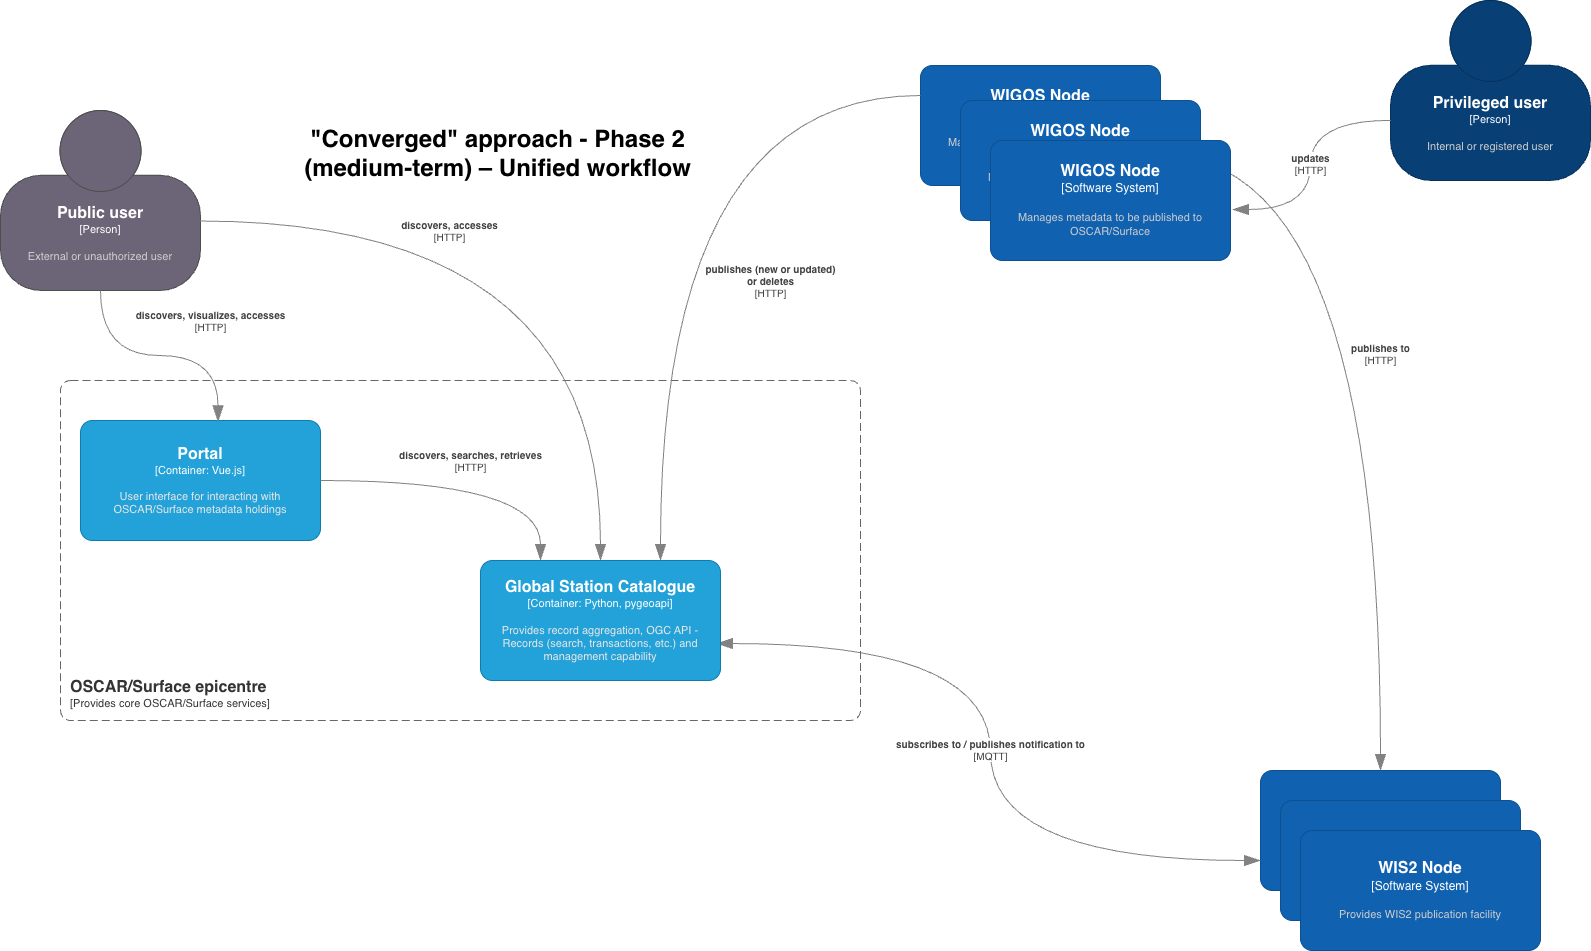
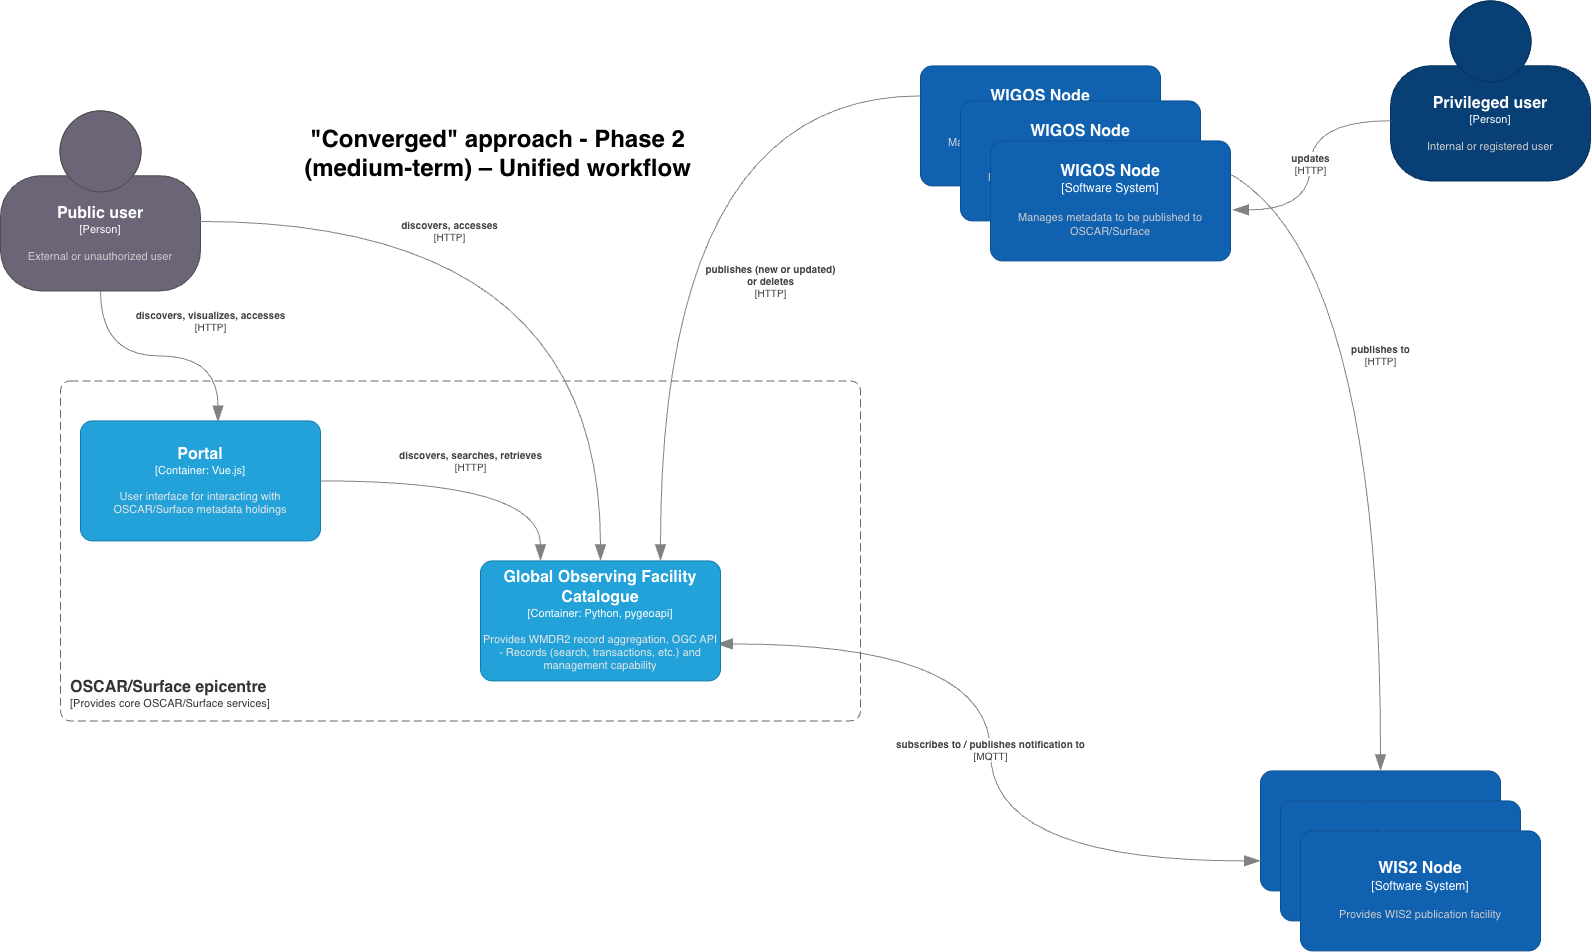
update website via GitHub Actions

diff --git a/community/service-providers/index.html b/community/service-providers/index.html
@@ -41,24 +41,123 @@
         <div class="row">
           <div class="col-sm-12 col-md-10 col-md-offset-1">
             <h1 id="service-providers">Service Providers<a class="headerlink" href="#service-providers" title="Permanent link">&para;</a></h1>
-<p>The pygeoapi Service Provivers page lists businesses, organizations and individuals around the world who can provide services related to pygeoapi.</p>
-<p>In order to add your entity to the pygeoapi Service Providers page, you must be a clear, visible contributor to the project and community.</p>
-<p>While listing new entities is welcome, the pygeoapi <a href="https://pygeoapi.io/community/psc">Project Steering Committee (PSC)</a> reserves the right to update or remove organizations as required.</p>
-<p>To add your entity:</p>
+<p>pygeoapi is developed and supported by a number of businesses, organizations and individuals around the world.</p>
+<p>Using a service provider is a great way to get started with pygeoapi and contributes to the ongoing sustainability of the project.  Services include (but are not limited to):</p>
 <ul>
-<li>edit the page <a href="https://github.com/geopython/pygeoapi.io/blob/master/docs/community/service-providers/index.md">https://github.com/geopython/pygeoapi.io/blob/master/docs/community/service-providers/index.md</a>, by adding the below HTML div (following the last entry) as follows:</li>
+<li>training</li>
+<li>setup/installation/deployment</li>
+<li>custom integration</li>
+<li>bug fixing</li>
+<li>features/enhancements</li>
+<li>core development</li>
+<li>maintenance/packaging/distribution</li>
+<li>documentation</li>
 </ul>
-<div class="language-html highlight"><pre><span></span><code><span id="__span-0-1"><a id="__codelineno-0-1" name="__codelineno-0-1" href="#__codelineno-0-1"></a>  <span class="p">&lt;</span><span class="nt">div</span> <span class="na">class</span><span class="o">=</span><span class="s">"service-provider"</span><span class="p">&gt;</span>
-</span><span id="__span-0-2"><a id="__codelineno-0-2" name="__codelineno-0-2" href="#__codelineno-0-2"></a>    <span class="p">&lt;</span><span class="nt">h2</span><span class="p">&gt;</span>My Entity<span class="p">&lt;/</span><span class="nt">h2</span><span class="p">&gt;</span>
-</span><span id="__span-0-3"><a id="__codelineno-0-3" name="__codelineno-0-3" href="#__codelineno-0-3"></a>    <span class="p">&lt;</span><span class="nt">p</span><span class="p">&gt;</span>
-</span><span id="__span-0-4"><a id="__codelineno-0-4" name="__codelineno-0-4" href="#__codelineno-0-4"></a>      <span class="p">&lt;</span><span class="nt">span</span><span class="p">&gt;</span>Description of My Entity which can include HTML.<span class="p">&lt;/</span><span class="nt">span</span><span class="p">&gt;</span>
-</span><span id="__span-0-5"><a id="__codelineno-0-5" name="__codelineno-0-5" href="#__codelineno-0-5"></a>    <span class="p">&lt;/</span><span class="nt">p</span><span class="p">&gt;</span>
-</span><span id="__span-0-6"><a id="__codelineno-0-6" name="__codelineno-0-6" href="#__codelineno-0-6"></a>  <span class="p">&lt;/</span><span class="nt">div</span><span class="p">&gt;</span>
-</span></code></pre></div>
-<ul>
-<li>open a GitHub Pull Request of your addition, for review</li>
-</ul>
-<p>If/once the Pull Request is merged, the page at <a href="https://pygeoapi.io/community/service-providers">https://pygeoapi.io/community/service-providers</a> will be updated live.  Note that entities are randomly shuffled on each page load.</p>
+<p>The section below provides a list of service providers who can help you in getting the best out of your pygeoapi investment.  The list is randomized on each page load.</p>
+<p>If you are a service provider and would like to be listed on this page, please feel free to <a href="https://github.com/geopython/pygeoapi.io/blob/master/docs/community/service-providers/index.md">add yourself to the service provider list</a>.</p>
+<div id="service-provider-list">
+
+  <div class="service-provider">
+    <h2>Center for Geospatial Solutions</h2>
+    <p>
+      <span>The <a href="https://www.lincolninst.edu/center-geospatial-solutions">Center for Geospatial Solutions </a> works to ensure that organizations of all sizes have access to data and advanced technologies to improve decision-making for land and water conservation, climate action, and social equity. We develop geospatial data tools and infrastructure that leverage linked data principles and international standards like OGC API. We also provide training, deployment, feature development, and operational services for organizations wishing to adopt pygeoapi as part of their spatial data infrastructure.</span>
+    </p>
+  </div>
+
+  <div class="service-provider">
+    <h2>EOX IT Services GmbH</h2>
+    <p>
+      <span><a href="https://eox.at"><img width="100" src="https://eox.at/EOX_Logo.svg"/></a></span>
+      <span><a href="https://eox.at">EOX IT Services GmbH</a> (Austria) offers solutions and services in the geodata domain in general and in the Earth Observation domain in particular. EOX is strongly committed towards utilizing and contributing to Open Source Software for example by adapting pygeoapi for <a href="https://github.com/eurodatacube/pygeoapi-kubernetes-papermill">Kubernetes-based cloud environments</a>. EOX furthermore provides managed compute and storage resources in the EOxHub Workspace.</span>
+    </p>
+  </div>
+
+  <div class="service-provider">
+    <h2>Geobeyond Srl</h2>
+    <p>
+      <span><a href="http://www.geobeyond.it">Geobeyond Srl</a> (Italy) is a small company established in 2012 that brings innovation into the digital identity and geospatial market of open-source based solutions. Geobeyond offers commercial support and core development on pygeoapi to build robust and affordable solutions which can scale up the authentication and authorization capabilities on client's premises. We provide managed serverless solutions on top of pygeoapi with <a href="https://github.com/geobeyond/fastgeoapi">FASTGeoAPI</a>.</span>
+    </p>
+  </div>
+
+  <div class="service-provider">
+    <h2>GeoCat B.V.</h2>
+    <p>
+      <span><a href="https://geocat.net">GeoCat</a> (Netherlands/Canada) offers cutting-edge customized software and services that make publishing geospatial data on the Internet easier and more efficient. Specialized in Spatial Data Infrastructure (SDI) and geospatial data cloud solutions, GeoCat builds sustainable applications following the Free and Open Source Software (FOSS) principle and open standards, and it also is a pygeoapi contributor.</span>
+    </p>
+  </div>
+
+  <div class="service-provider">
+    <h2>GeoComvos Ltd</h2>
+    <p>
+      <span><a href="http://geocomvos.com">GeoComvos Ltd.</a> is a technical consultancy and open source geospatial service provider, specializing in the development, deployment of Free and Open Source Software Geospatial (FOSS4G) technology, particularly in the development of Spatial Data Infrastructure (SDI) platforms and Geospatial Catalogues. The company specializes in promoting, developing and contributing Open Source and Open Data solutions to governments, organizations and the private sector. GeoComvos provides support and development services for pygeoapi.</span>
+    </p>
+  </div>
+
+  <div class="service-provider">
+    <h2>Just Objects B.V.</h2>
+    <p>
+      <span><a href="https://justobjects.nl">Just Objects</a> is the trading name for the professional activities of <a href="https://github.com/justb4">Just van den Broecke</a>. 
+         Just is a full-stack developer with over 25 years experience.
+       He is a pygeoapi core developer, has developed the <a href="https://demo.pygeoapi.io">pygeoapi demo server</a>, and contributes to many other open source geospatial projects. 
+        Through <a href="https://justobjects.nl">Just Objects</a> he provides a range of services for Free and Open Source Software Geospatial (FOSS4G) technology, including consultancy, training, development and (DevOps) deployment.</span>
+    </p>
+  </div>
+
+  <div class="service-provider">
+    <h2>GatewayGeo</h2>
+    <p>
+      <span><a href="https://gatewaygeomatics.com/"><img width="200" src="https://gatewaygeomatics.com/images/gatewaygeo-logo.png"/></a></span>
+      <span><a href="https://gatewaygeomatics.com/">GatewayGeo</a> (Canada) is a company on the East Coast of Canada that has long specialized in assisting organizations to publish, discover and share their geospatial data through openness : OGC services, leveraging FOSS4G software.  GatewayGeo is known for its longtime participation in the MapServer project, as well as being the company who gave the initial pycsw metadata publishing workshop back in 2013.  GatewayGeo's popular product, <a href="https://ms4w.com">MS4W</a>, is freely available and comes pre-configured with various OGC services running out-of-the-box.</span>
+    </p>
+  </div>  
+
+  <div class="service-provider">
+    <h2>Byte Road</h2>
+    <p>
+      <span><a href="https://byteroad.net/"><img width="100" src="https://byteroad.net/assets/img/BR_02.png"/></a></span>
+      <span><a href="https://byteroad.net/">Byte Road</a> (Portugal) is a consulting and R&D company, operating in the fields of data engineering and data analytics. We leverage open standards, free and open source software, cloud computing, software containers, SQL and NoSQL databases, to pave roads that connect users to their data assets. 
+      Byte Road develops and maintains the <a href="https://emotional.byteroad.net/">pygeoapi-based spatial data infrastructure (SDI)</a>, created in the context of the <a href="https://emotionalcities-h2020.eu/">eMOTIONAL Cities project</a>. We speak Portuguese, Italian, Spanish and English.
+    </p>
+  </div>
+
+  <div class="service-provider">
+    <h2>Rotten Grapes Private Limited</h2>
+    <p>
+      <span><a href="https://rottengrapes.tech/"><img width="100" src="https://rottengrapes.tech/static/assets/images/logo.webp"/></a></span>
+      <span><a href="https://rottengrapes.tech/">Rotten Grapes</a> (India) works in custom geospatial API development, consulting, and professional training focused on open standards and scalable architectures. We help organizations design, deploy, and maintain production-grade APIs using pygeoapi and related open-source geospatial technologies. We also conduct hands-on trainings and workshops around pygeoapi, OGC APIs, and modern geospatial data services for enterprise, government, and research teams.
+    </p>
+  </div>
+</div>
+
+<script>
+
+// shuffle divs randomly
+// from https://stackoverflow.com/a/43980082 (2022-01-15)
+
+function shuffle() {
+  var container = document.getElementById("service-provider-list");
+  var elementsArray = Array.prototype.slice.call(container.getElementsByClassName("service-provider"));
+  elementsArray.forEach(function(element){
+    container.removeChild(element);
+  })
+  shuffleArray(elementsArray);
+  elementsArray.forEach(function(element){
+    container.appendChild(element);
+  })
+}
+
+function shuffleArray(array) {
+    for (var i = array.length - 1; i > 0; i--) {
+        var j = Math.floor(Math.random() * (i + 1));
+        var temp = array[i];
+        array[i] = array[j];
+        array[j] = temp;
+    }
+    return array;
+}
+
+shuffle();
+</script>
           </div>
         </div>
       </div>

diff --git a/presentations/foss4g2026/index.html b/presentations/foss4g2026/index.html
@@ -424,7 +424,7 @@ curl http://localhost:5000  # or open in a web browser
 					<h1>UN/WMO WIGOS</h1>
 					<ul>
 						<li><a href="https://community.wmo.int/site/knowledge-hub/programmes-and-initiatives/wmo-integrated-global-observing-system-wigos">WMO Integrated Global Observing System</a></li>
-						<li>API component of the WIGOS Global Station Catalogue</li>
+						<li>API component of the WIGOS Global Observing Facility Catalogue (GOFC)</li>
 					</ul>
 					<img style="background-color: white;" src="../default/static/wmo-wigos-phase2.png"/>
 					<p><a href="https://community.wmo.int/site/knowledge-hub/programmes-and-initiatives/wmo-integrated-global-observing-system-wigos">WIGOS website</a></p>
